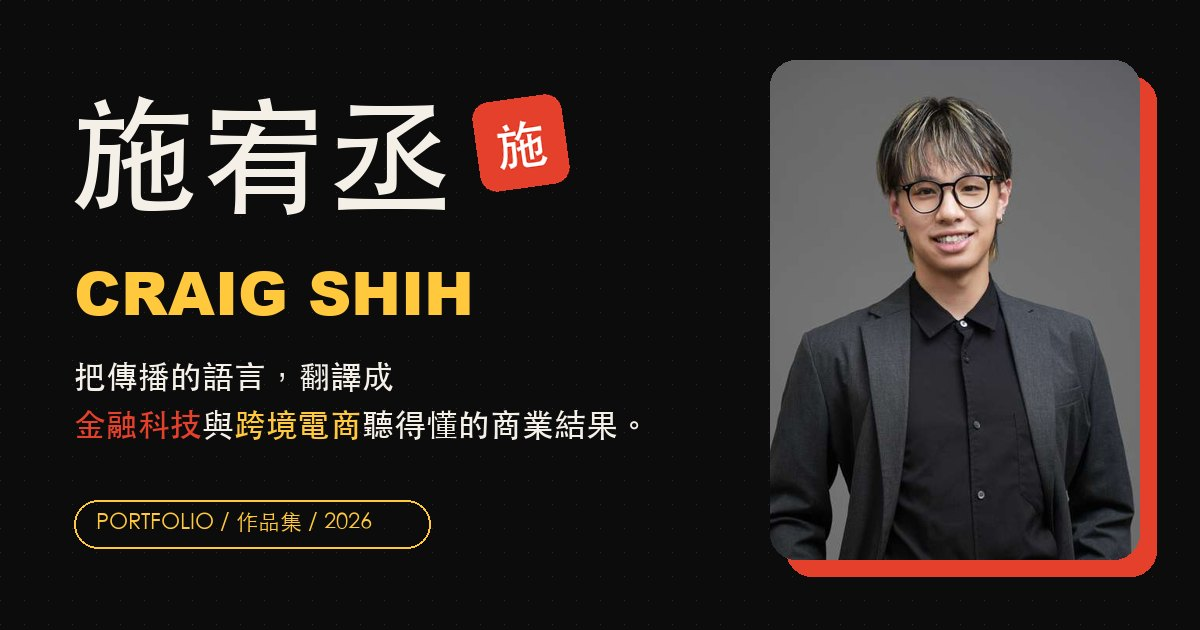
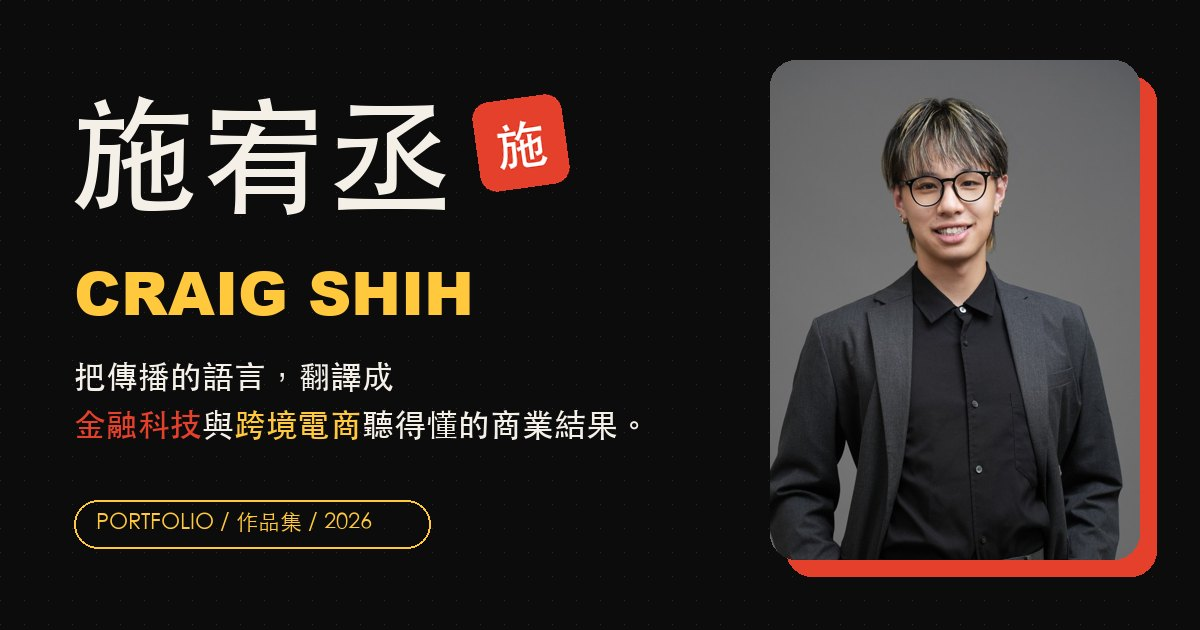
Use new high-resolution portrait; fix portrait aspect ratio

Changed region(s): [[0.6167, 0.1508, 0.9558, 0.9048], [0.74, 0.7841, 0.7708, 0.8746], [0.6167, 0.6937, 0.6475, 0.7238]]

diff --git a/en/index.html b/en/index.html
@@ -21,7 +21,7 @@
 <link rel="preconnect" href="https://fonts.googleapis.com">
 <link rel="preconnect" href="https://fonts.gstatic.com" crossorigin>
 <link href="https://fonts.googleapis.com/css2?family=Inter:wght@400;500;600;700;800&family=JetBrains+Mono:wght@400;500;700&family=Noto+Sans+TC:wght@400;500;700;900&family=Space+Grotesk:wght@500;700&display=swap" rel="stylesheet">
-<link rel="stylesheet" href="../assets/css/site.css?v=90c11845">
+<link rel="stylesheet" href="../assets/css/site.css?v=3a59d4c9">
 <script type="application/ld+json">{"@context": "https://schema.org", "@type": "Person", "name": "施宥丞", "alternateName": ["Craig Shih", "Yu Cheng Shih"], "url": "https://craigshih.github.io/", "image": "https://craigshih.github.io/assets/img/portrait.jpg", "email": "mailto:craigshih1206@gmail.com", "jobTitle": "Fintech / Cross-border e-commerce / Tech marketing", "alumniOf": {"@type": "CollegeOrUniversity", "name": "National Chengchi University"}, "sameAs": ["https://www.linkedin.com/in/craig-shih-951121338/", "https://github.com/craigshih", "https://craig-finance.pages.dev/"]}</script>
 </head>
 <body>
@@ -59,7 +59,7 @@
         </div>
       </div>
       <div class="hero-photo reveal">
-        <div class="photo"><img src="../assets/img/portrait.webp" alt="施宥丞" width="640" height="642" fetchpriority="high"></div>
+        <div class="photo"><img src="../assets/img/portrait-2026.webp" alt="施宥丞" width="1120" height="1400" fetchpriority="high"></div>
         <div class="orbit"><svg viewBox="0 0 120 120" aria-hidden="true"><defs><path id="orb" d="M60 60m-47 0a47 47 0 1 1 94 0a47 47 0 1 1-94 0"/></defs>
           <circle cx="60" cy="60" r="58" fill="var(--yellow)"/>
           <text font-size="9.6" font-weight="700" fill="#111" font-family="JetBrains Mono, monospace"><textPath href="#orb" textLength="292" lengthAdjust="spacing">OPEN TO WORK · FINTECH · E-COMMERCE · TECH MARKETING · </textPath></text>
@@ -682,6 +682,6 @@
   <figure><img src="" alt=""><figcaption></figcaption></figure>
   <button class="next" aria-label="Next image">→</button>
 </div>
-<script src="../assets/js/site.js?v=90c11845" defer></script>
+<script src="../assets/js/site.js?v=3a59d4c9" defer></script>
 </body>
 </html>

diff --git a/index.html b/index.html
@@ -21,7 +21,7 @@
 <link rel="preconnect" href="https://fonts.googleapis.com">
 <link rel="preconnect" href="https://fonts.gstatic.com" crossorigin>
 <link href="https://fonts.googleapis.com/css2?family=Inter:wght@400;500;600;700;800&family=JetBrains+Mono:wght@400;500;700&family=Noto+Sans+TC:wght@400;500;700;900&family=Space+Grotesk:wght@500;700&display=swap" rel="stylesheet">
-<link rel="stylesheet" href="assets/css/site.css?v=90c11845">
+<link rel="stylesheet" href="assets/css/site.css?v=3a59d4c9">
 <script type="application/ld+json">{"@context": "https://schema.org", "@type": "Person", "name": "施宥丞", "alternateName": ["Craig Shih", "Yu Cheng Shih"], "url": "https://craigshih.github.io/", "image": "https://craigshih.github.io/assets/img/portrait.jpg", "email": "mailto:craigshih1206@gmail.com", "jobTitle": "金融科技 / 跨境電商 / 科技行銷", "alumniOf": {"@type": "CollegeOrUniversity", "name": "National Chengchi University"}, "sameAs": ["https://www.linkedin.com/in/craig-shih-951121338/", "https://github.com/craigshih", "https://craig-finance.pages.dev/"]}</script>
 </head>
 <body>
@@ -59,7 +59,7 @@
         </div>
       </div>
       <div class="hero-photo reveal">
-        <div class="photo"><img src="assets/img/portrait.webp" alt="施宥丞" width="640" height="642" fetchpriority="high"></div>
+        <div class="photo"><img src="assets/img/portrait-2026.webp" alt="施宥丞" width="1120" height="1400" fetchpriority="high"></div>
         <div class="orbit"><svg viewBox="0 0 120 120" aria-hidden="true"><defs><path id="orb" d="M60 60m-47 0a47 47 0 1 1 94 0a47 47 0 1 1-94 0"/></defs>
           <circle cx="60" cy="60" r="58" fill="var(--yellow)"/>
           <text font-size="9.6" font-weight="700" fill="#111" font-family="JetBrains Mono, monospace"><textPath href="#orb" textLength="292" lengthAdjust="spacing">OPEN TO WORK · 金融科技 · 跨境電商 · 科技行銷 · </textPath></text>
@@ -682,6 +682,6 @@
   <figure><img src="" alt=""><figcaption></figcaption></figure>
   <button class="next" aria-label="下一張">→</button>
 </div>
-<script src="assets/js/site.js?v=90c11845" defer></script>
+<script src="assets/js/site.js?v=3a59d4c9" defer></script>
 </body>
 </html>

diff --git a/assets/css/site.css b/assets/css/site.css
@@ -187,7 +187,7 @@ a.card:hover{transform:translateY(-4px);border-color:color-mix(in srgb,var(--red
 .hero-photo{position:relative;max-width:440px;justify-self:end;width:100%}
 .photo{position:relative;border-radius:22px}
 .photo::before{content:"";position:absolute;inset:0;border-radius:22px;background:var(--red);transform:translate(14px,14px);transition:transform .5s cubic-bezier(.2,.7,.3,1)}
-.photo img{position:relative;width:100%;aspect-ratio:4/5;object-fit:cover;object-position:center 22%;border-radius:22px;border:1.5px solid #000;filter:contrast(1.05)}
+.photo img{position:relative;width:100%;height:auto;aspect-ratio:4/5;object-fit:cover;object-position:center 22%;border-radius:22px;border:1.5px solid #000;filter:contrast(1.05)}
 .hero-photo:hover .photo::before{transform:translate(20px,20px)}
 .orbit{position:absolute;left:-46px;top:-40px;width:122px;height:122px}
 .orbit svg{width:100%;height:100%;animation:fxSpin 22s linear infinite}

diff --git a/en/work/amazon-campus.html b/en/work/amazon-campus.html
@@ -21,7 +21,7 @@
 <link rel="preconnect" href="https://fonts.googleapis.com">
 <link rel="preconnect" href="https://fonts.gstatic.com" crossorigin>
 <link href="https://fonts.googleapis.com/css2?family=Inter:wght@400;500;600;700;800&family=JetBrains+Mono:wght@400;500;700&family=Noto+Sans+TC:wght@400;500;700;900&family=Space+Grotesk:wght@500;700&display=swap" rel="stylesheet">
-<link rel="stylesheet" href="../../assets/css/site.css?v=90c11845">
+<link rel="stylesheet" href="../../assets/css/site.css?v=3a59d4c9">
 </head>
 <body>
 <a class="skip" href="#main">Skip to content</a>
@@ -148,6 +148,6 @@
   <figure><img src="" alt=""><figcaption></figcaption></figure>
   <button class="next" aria-label="Next image">→</button>
 </div>
-<script src="../../assets/js/site.js?v=90c11845" defer></script>
+<script src="../../assets/js/site.js?v=3a59d4c9" defer></script>
 </body>
 </html>

diff --git a/en/work/amazon-social.html b/en/work/amazon-social.html
@@ -21,7 +21,7 @@
 <link rel="preconnect" href="https://fonts.googleapis.com">
 <link rel="preconnect" href="https://fonts.gstatic.com" crossorigin>
 <link href="https://fonts.googleapis.com/css2?family=Inter:wght@400;500;600;700;800&family=JetBrains+Mono:wght@400;500;700&family=Noto+Sans+TC:wght@400;500;700;900&family=Space+Grotesk:wght@500;700&display=swap" rel="stylesheet">
-<link rel="stylesheet" href="../../assets/css/site.css?v=90c11845">
+<link rel="stylesheet" href="../../assets/css/site.css?v=3a59d4c9">
 </head>
 <body>
 <a class="skip" href="#main">Skip to content</a>
@@ -159,6 +159,6 @@
   <figure><img src="" alt=""><figcaption></figcaption></figure>
   <button class="next" aria-label="Next image">→</button>
 </div>
-<script src="../../assets/js/site.js?v=90c11845" defer></script>
+<script src="../../assets/js/site.js?v=3a59d4c9" defer></script>
 </body>
 </html>

diff --git a/en/work/bm7.html b/en/work/bm7.html
@@ -21,7 +21,7 @@
 <link rel="preconnect" href="https://fonts.googleapis.com">
 <link rel="preconnect" href="https://fonts.gstatic.com" crossorigin>
 <link href="https://fonts.googleapis.com/css2?family=Inter:wght@400;500;600;700;800&family=JetBrains+Mono:wght@400;500;700&family=Noto+Sans+TC:wght@400;500;700;900&family=Space+Grotesk:wght@500;700&display=swap" rel="stylesheet">
-<link rel="stylesheet" href="../../assets/css/site.css?v=90c11845">
+<link rel="stylesheet" href="../../assets/css/site.css?v=3a59d4c9">
 </head>
 <body>
 <a class="skip" href="#main">Skip to content</a>
@@ -167,6 +167,6 @@
   <figure><img src="" alt=""><figcaption></figcaption></figure>
   <button class="next" aria-label="Next image">→</button>
 </div>
-<script src="../../assets/js/site.js?v=90c11845" defer></script>
+<script src="../../assets/js/site.js?v=3a59d4c9" defer></script>
 </body>
 </html>

diff --git a/en/work/bourgeois.html b/en/work/bourgeois.html
@@ -21,7 +21,7 @@
 <link rel="preconnect" href="https://fonts.googleapis.com">
 <link rel="preconnect" href="https://fonts.gstatic.com" crossorigin>
 <link href="https://fonts.googleapis.com/css2?family=Inter:wght@400;500;600;700;800&family=JetBrains+Mono:wght@400;500;700&family=Noto+Sans+TC:wght@400;500;700;900&family=Space+Grotesk:wght@500;700&display=swap" rel="stylesheet">
-<link rel="stylesheet" href="../../assets/css/site.css?v=90c11845">
+<link rel="stylesheet" href="../../assets/css/site.css?v=3a59d4c9">
 </head>
 <body>
 <a class="skip" href="#main">Skip to content</a>
@@ -143,6 +143,6 @@
   <figure><img src="" alt=""><figcaption></figcaption></figure>
   <button class="next" aria-label="Next image">→</button>
 </div>
-<script src="../../assets/js/site.js?v=90c11845" defer></script>
+<script src="../../assets/js/site.js?v=3a59d4c9" defer></script>
 </body>
 </html>

diff --git a/en/work/dreamloan.html b/en/work/dreamloan.html
@@ -21,7 +21,7 @@
 <link rel="preconnect" href="https://fonts.googleapis.com">
 <link rel="preconnect" href="https://fonts.gstatic.com" crossorigin>
 <link href="https://fonts.googleapis.com/css2?family=Inter:wght@400;500;600;700;800&family=JetBrains+Mono:wght@400;500;700&family=Noto+Sans+TC:wght@400;500;700;900&family=Space+Grotesk:wght@500;700&display=swap" rel="stylesheet">
-<link rel="stylesheet" href="../../assets/css/site.css?v=90c11845">
+<link rel="stylesheet" href="../../assets/css/site.css?v=3a59d4c9">
 </head>
 <body>
 <a class="skip" href="#main">Skip to content</a>
@@ -147,6 +147,6 @@
   <figure><img src="" alt=""><figcaption></figcaption></figure>
   <button class="next" aria-label="Next image">→</button>
 </div>
-<script src="../../assets/js/site.js?v=90c11845" defer></script>
+<script src="../../assets/js/site.js?v=3a59d4c9" defer></script>
 </body>
 </html>

diff --git a/en/work/finance-hub.html b/en/work/finance-hub.html
@@ -21,7 +21,7 @@
 <link rel="preconnect" href="https://fonts.googleapis.com">
 <link rel="preconnect" href="https://fonts.gstatic.com" crossorigin>
 <link href="https://fonts.googleapis.com/css2?family=Inter:wght@400;500;600;700;800&family=JetBrains+Mono:wght@400;500;700&family=Noto+Sans+TC:wght@400;500;700;900&family=Space+Grotesk:wght@500;700&display=swap" rel="stylesheet">
-<link rel="stylesheet" href="../../assets/css/site.css?v=90c11845">
+<link rel="stylesheet" href="../../assets/css/site.css?v=3a59d4c9">
 </head>
 <body>
 <a class="skip" href="#main">Skip to content</a>
@@ -140,6 +140,6 @@
   <figure><img src="" alt=""><figcaption></figcaption></figure>
   <button class="next" aria-label="Next image">→</button>
 </div>
-<script src="../../assets/js/site.js?v=90c11845" defer></script>
+<script src="../../assets/js/site.js?v=3a59d4c9" defer></script>
 </body>
 </html>

diff --git a/en/work/onus.html b/en/work/onus.html
@@ -21,7 +21,7 @@
 <link rel="preconnect" href="https://fonts.googleapis.com">
 <link rel="preconnect" href="https://fonts.gstatic.com" crossorigin>
 <link href="https://fonts.googleapis.com/css2?family=Inter:wght@400;500;600;700;800&family=JetBrains+Mono:wght@400;500;700&family=Noto+Sans+TC:wght@400;500;700;900&family=Space+Grotesk:wght@500;700&display=swap" rel="stylesheet">
-<link rel="stylesheet" href="../../assets/css/site.css?v=90c11845">
+<link rel="stylesheet" href="../../assets/css/site.css?v=3a59d4c9">
 </head>
 <body>
 <a class="skip" href="#main">Skip to content</a>
@@ -149,6 +149,6 @@
   <figure><img src="" alt=""><figcaption></figcaption></figure>
   <button class="next" aria-label="Next image">→</button>
 </div>
-<script src="../../assets/js/site.js?v=90c11845" defer></script>
+<script src="../../assets/js/site.js?v=3a59d4c9" defer></script>
 </body>
 </html>

diff --git a/en/work/radio.html b/en/work/radio.html
@@ -21,7 +21,7 @@
 <link rel="preconnect" href="https://fonts.googleapis.com">
 <link rel="preconnect" href="https://fonts.gstatic.com" crossorigin>
 <link href="https://fonts.googleapis.com/css2?family=Inter:wght@400;500;600;700;800&family=JetBrains+Mono:wght@400;500;700&family=Noto+Sans+TC:wght@400;500;700;900&family=Space+Grotesk:wght@500;700&display=swap" rel="stylesheet">
-<link rel="stylesheet" href="../../assets/css/site.css?v=90c11845">
+<link rel="stylesheet" href="../../assets/css/site.css?v=3a59d4c9">
 </head>
 <body>
 <a class="skip" href="#main">Skip to content</a>
@@ -147,6 +147,6 @@
   <figure><img src="" alt=""><figcaption></figcaption></figure>
   <button class="next" aria-label="Next image">→</button>
 </div>
-<script src="../../assets/js/site.js?v=90c11845" defer></script>
+<script src="../../assets/js/site.js?v=3a59d4c9" defer></script>
 </body>
 </html>

diff --git a/work/amazon-campus.html b/work/amazon-campus.html
@@ -21,7 +21,7 @@
 <link rel="preconnect" href="https://fonts.googleapis.com">
 <link rel="preconnect" href="https://fonts.gstatic.com" crossorigin>
 <link href="https://fonts.googleapis.com/css2?family=Inter:wght@400;500;600;700;800&family=JetBrains+Mono:wght@400;500;700&family=Noto+Sans+TC:wght@400;500;700;900&family=Space+Grotesk:wght@500;700&display=swap" rel="stylesheet">
-<link rel="stylesheet" href="../assets/css/site.css?v=90c11845">
+<link rel="stylesheet" href="../assets/css/site.css?v=3a59d4c9">
 </head>
 <body>
 <a class="skip" href="#main">跳到主要內容</a>
@@ -148,6 +148,6 @@
   <figure><img src="" alt=""><figcaption></figcaption></figure>
   <button class="next" aria-label="下一張">→</button>
 </div>
-<script src="../assets/js/site.js?v=90c11845" defer></script>
+<script src="../assets/js/site.js?v=3a59d4c9" defer></script>
 </body>
 </html>
